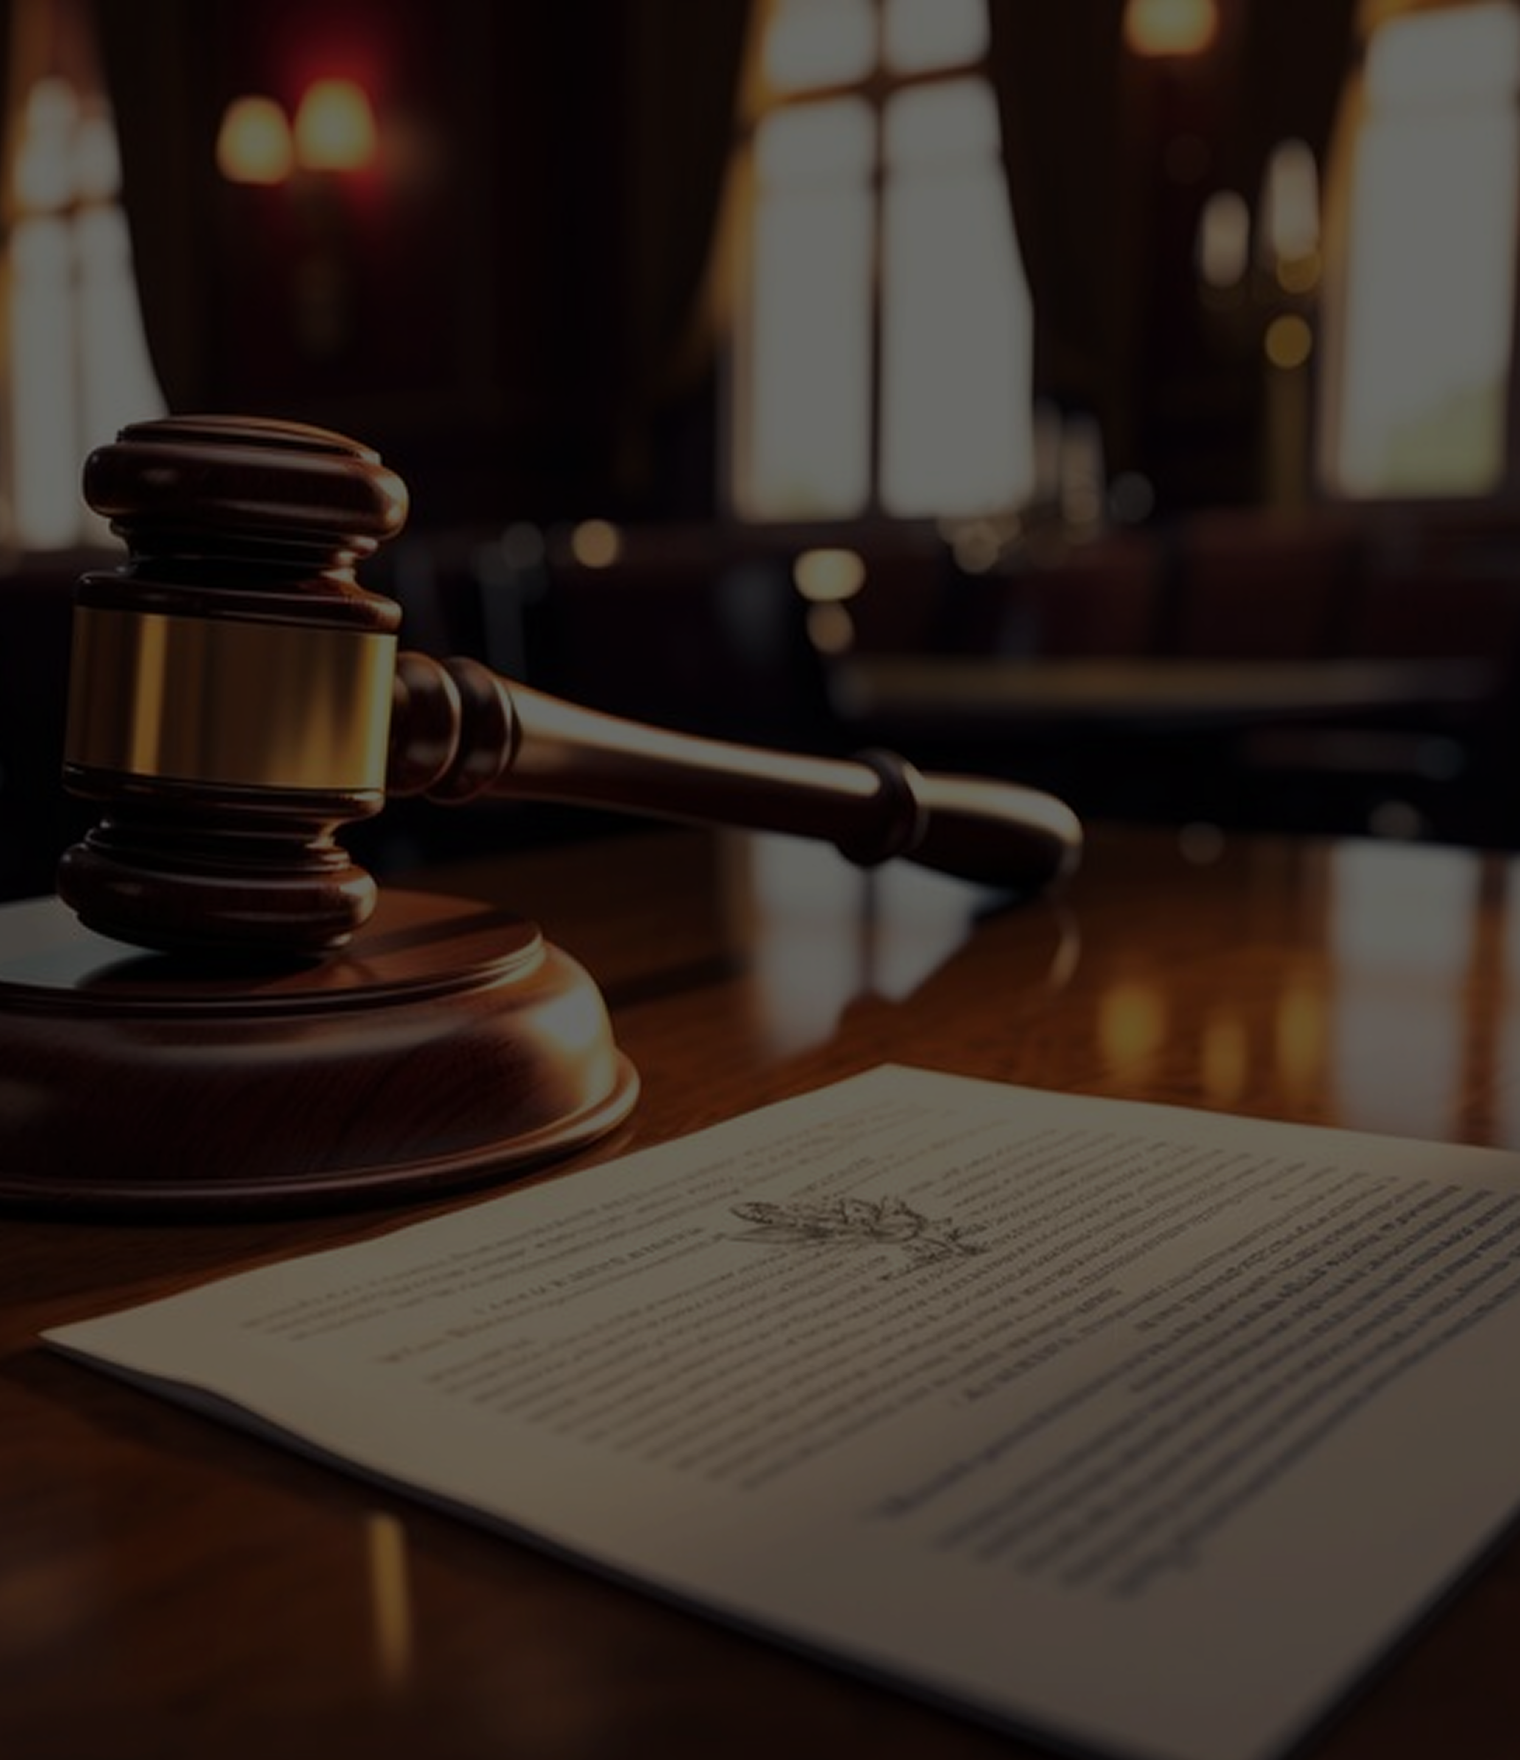
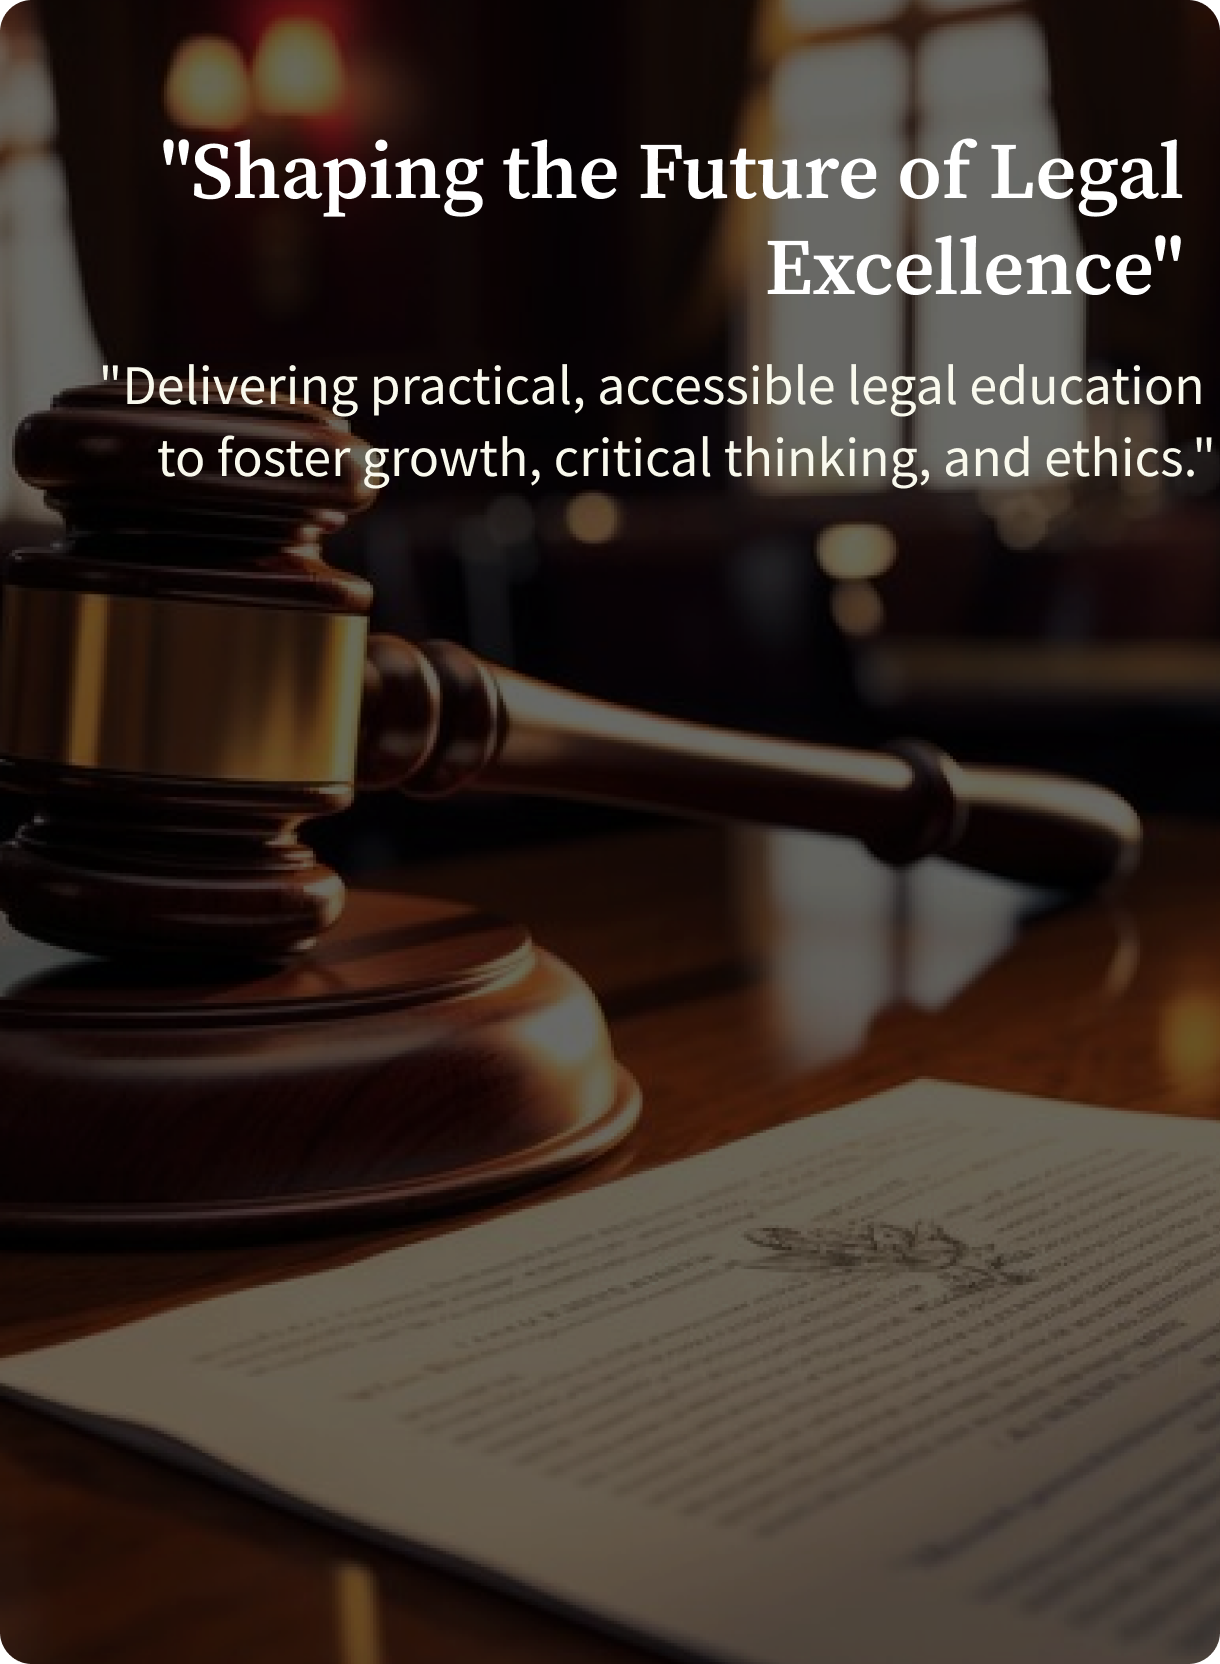
commit

diff --git a/Pages/AboutUs.html b/Pages/AboutUs.html
@@ -110,32 +110,25 @@
 
 <div class="OurMission my-5  container-fluid row">
 
-    <div class="col-12  my-auto col-lg-6 missioncontainer">
+    <div class="col-12  my-auto col-xl-4 missioncontainer">
 
         <div class="MissionContent1">
 <h2 style="font-family: 'Times New Roman', Times, serif; color: #964b00;
     font-weight: 500;">Our Mission</h2>
-<p>"To be a globally recognized institution that transforms legal education through innovation, expert mentorship, and real-world application. We aim to shape future leaders in the legal sector by fostering excellence, integrity, and a deep understanding of law and justice."</p>
+<p>Our mission is to empower individuals with a deep understanding of law, justice, and governance through high-quality, accessible, and practical education while fostering intellectual growth, critical thinking, ethical responsibility, and a passion for advocacy.</p>
 
 </div>
 <div class="MissionContent2">
     <h2 style="font-family: 'Times New Roman', Times, serif; color: #964b00;
     font-weight: 500;">Our Vision</h2>
-    <p>"Our mission is to empower individuals with a profound understanding of law, justice, and governance through high-quality, accessible, and practical education. We strive to cultivate critical thinking, intellectual growth, and ethical responsibility, preparing legal professionals to navigate complex challenges in society." </p>
+    <p>To be a globally recognized institution that transforms legal education through innovation, expert mentorship, and real-world applications, shaping future leaders in the legal sector with knowledge, integrity, and a commitment to justice</p>
 </div>
     </div>
 
-    <!-- <div class="col-12 col-lg-6 MissionContent3">
+    <div class="col-12 col-xl-8 MissionContent3">
         <div class="MissionOverlay">
-            <img src="../Assets/ShapingtheFuture.png" alt="Shaping the Future">
-            <div class="OverlayText">
-                <h style="font-family: 'Times New Roman', Times, serif;">"Shaping the Future of <br> Legal Excellence"</h>
-            </div>
-            <div class="OverLayText2">
 
 
-                <p>Delivering practical, accessible legal education to foster growth, critical thinking, and ethics.</p>
-            </div>
 
             <div class="OverLayText3">
 
@@ -150,7 +143,30 @@
             </div>
         </div>
     </div>
-     -->
+    
+
+</div>
+
+<div class="Offer container-fluid my-2 row">
+
+<div class="col-12">
+
+    <h1 style="text-align: center; font-family: 'Times New Roman', Times, serif ; color: #964b00;font-weight: 600; ">What We Offer</h1>
+    
+
+<p style="text-align: center;">At Lexcellence Academy, we offer a range of specialized training programs designed to meet <br> the evolving demands of the legal industry. Our key offerings include:</p>
+
+
+<div class=" img1">
+
+    <img src="../Assets/Offer.png" alt="">
+</div>
+
+
+
+</div>
+
+
 
 </div>
 
@@ -163,8 +179,6 @@
 
 
 
-
-
-
+<script src="../JS Files/AboutUS.js"></script>
 </body>
 </html>

diff --git a/CSS Files/AboutUs.css b/CSS Files/AboutUs.css
@@ -359,7 +359,7 @@
     border-radius: 12x;
 }
 .MissionContent2  {
-margin-top: 10px;
+    margin-top: 10px;
     background-color: #FFFDE5;
     padding: 15px;
     margin-top: 20px;
@@ -375,6 +375,7 @@ margin-top: 10px;
 .OurMission{
     display: flex;
     justify-content: center;
+    gap: 60px;
 }
 
 
@@ -388,8 +389,14 @@ margin-top: 10px;
 
 .MissionContent3 {
     width: 330px;
+display: flex;
+border-radius: 12px;
+align-items: center !important;
     padding: 0% !important;
     height: 444px;
+    background-position: center !important;
+    background-size: cover !important;
+    background: url(../Assets/ShapingtheFuture.png);
     position: relative; /* Ensures the text overlay stays in place */
 }
 
@@ -398,31 +405,10 @@ margin-top: 10px;
 }
 
 
-.OverlayText {
-    position: absolute;
-    top: -360px !important;
-    left: 40%;
-    transform: translate(-50%, -50%);
-    text-align: right;
-    color: white;
-    border-radius: 12px;
-}
-
-
-.OverLayText2{
-    position: absolute;
-    top: -370px !important;
-    left: 40%;
-    transform: translate(-50%, -50%);
-    text-align: right;
-    color: white;
-    font-size: 12px;
-    border-radius: 12px;
-}
 .OverLayText3{
     position: absolute;
-    top: -170px !important;
-    left:90%;
+    top: 190px !important;
+    left:130%;
     transform: translate(-50%, -50%);
     text-align: right;
     color: white;
@@ -453,4 +439,47 @@ margin-top: 10px;
 .Connect1  a {
 text-decoration: none;
 color: white;
+}
+
+
+
+.img1 img{
+    width: 950px;
+    height: 200px;
+    
+}
+
+.img1 {
+    display: flex;
+    justify-content: center;
+}
+
+
+@media screen and (max-width: 1024px) {
+    
+   
+    .img1 img{
+        width: 700px;
+        height: auto;
+        
+    }
+
+
+
+
+    @media screen and (max-width: 426px) {
+       
+       
+        .img1 img{
+            width: 300px;
+            height: auto;
+            
+        }
+        
+    }
+
+
+
+
+    
 }

diff --git a/style.css b/style.css
@@ -734,13 +734,45 @@ color: white;
 }
 
 
+
+
+
+
+
+
 .whychose {
-  opacity: 0;
-  transform: translateY(-20px);
-  transition: opacity 0.5s ease, transform 0.5s ease;
+  opacity: 0; /* Initially hidden */
+  transform: translateY(100%); /* Start from the bottom */
+  animation: scrollUp 1s ease forwards; /* Apply the animation */
 }
 
-.whychose:hover {
-  opacity: 1;
-  transform: translateY(0);
+@keyframes scrollUp {
+  0% {
+      opacity: 0;
+      transform: translateY(100%); /* Start from the bottom */
+  }
+  100% {
+      opacity: 1;
+      transform: translateY(0); /* Move to the original position */
+  }
+}
+
+
+
+
+.whychose {
+  opacity: 0; /* Initially hidden */
+  transform: translateY(100%); /* Start from the bottom */
+  animation: scrollUp 1s ease forwards; /* Apply the animation */
+}
+
+@keyframes scrollUp {
+  0% {
+      opacity: 0;
+      transform: translateY(100%); /* Start from the bottom */
+  }
+  100% {
+      opacity: 1;
+      transform: translateY(0); /* Move to the original position */
+  }
 }

diff --git a/script.js b/script.js
@@ -13,6 +13,24 @@ document.addEventListener("DOMContentLoaded", function () {
     });
 });
 
+document.addEventListener("DOMContentLoaded", function () {
+    const whyChooseSection = document.querySelector(".whychose");
+
+    // Function to trigger the animation
+    function triggerAnimation() {
+        whyChooseSection.style.animation = "none"; // Reset animation
+        void whyChooseSection.offsetWidth; // Trigger reflow
+        whyChooseSection.style.animation = "scrollUp 1s ease forwards"; // Reapply animation
+    }
+
+    // Trigger animation on page load
+    triggerAnimation();
+
+    // Optional: Re-trigger animation on window resize (for mobile devices)
+    window.addEventListener("resize", function () {
+        triggerAnimation();
+    });
+});
 
 // Create the custom cursor element
 const cursor = document.createElement('div');

diff --git a/JS Files/AboutUS.js b/JS Files/AboutUS.js
@@ -1,0 +1,14 @@
+document.addEventListener("DOMContentLoaded", function () {
+    const navbarToggle = document.querySelector(".navbar-toggle");
+    const navbarCollapse = document.querySelector("#collapsibleNavId");
+
+    navbarToggle.addEventListener("click", function () {
+        // Toggle 'active' class for animation
+        this.classList.toggle("active");
+    });
+
+    // Reset toggle icon when menu closes
+    navbarCollapse.addEventListener("hidden.bs.collapse", function () {
+        navbarToggle.classList.remove("active");
+    });
+});
